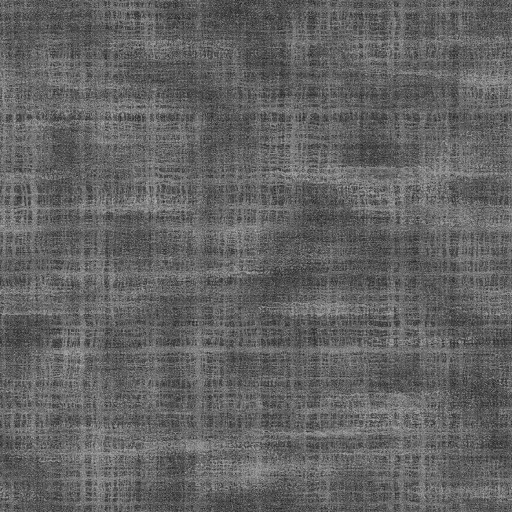
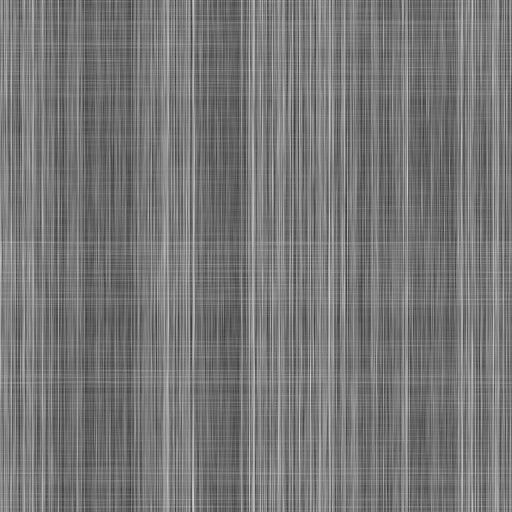
removed extra files +minor changes

diff --git a/report.html b/report.html
@@ -3,7 +3,7 @@
 <head>
     <meta charset="UTF-8">
     <meta name="viewport" content="width=device-width, initial-scale=1.0">
-    <title>Relazione Progetto WebGL</title>
+    <title>Relazione Progetto WebGL </title>
     <style>
         body {
             font-family: 'Segoe UI', Tahoma, Geneva, 
@@ -90,12 +90,11 @@
 
     <!-- DATI STUDENTE -->
     <div class="student-info">
-        <p>Nome: [Il tuo Nome]</p>
-        <p>Cognome: [Il tuo Cognome]</p>
-        <p>Matricola: [La tua Matricola]</p>
+        <p>Esame di Fondamenti di Computer Graphics (Modulo 1)</p>
+        <p>Francesco Taccetti - 1189579 </p>
     </div>
 
-    <h1>Relazione Progetto 3D WebGL: "Still Life"</h1>
+    <h1>Relazione Progetto 3D WebGL: "Natura Morta"</h1>
 
     <h2>Introduzione</h2>
     <p>
@@ -147,15 +146,15 @@
         avviene tramite la funzione
         <code>loadMeshWithGLM</code> che, appoggiandosi al parser, 
         estrae i dati poligonali e prepara in parallelo i buffer per 
-        le posizioni, le coordinate texture e due set distinti di normali 
+        le posizioni, le coordinate texture, le tangenti e due set distinti di normali 
         (normali di vertice e normali di faccia), fondamentali per supportare 
         dinamicamente le diverse tecniche di shading previste dall'applicazione.
     </p>
     <p>
         Il realismo visivo è garantito da un approccio misto al texture mapping. 
         Alcuni modelli, come gli elementi in vetro colorato, utilizzano 
-        texture monocromatiche generate direttamente via software a runtime. 
-        Per i restanti oggetti della scena sono state impiegate texture 
+        texture monocromatiche generate direttamente via software a runtime mentre
+        per i restanti oggetti della scena sono state impiegate texture 
         basate su file immagine. Infine, per soddisfare il requisito relativo 
         alla firma dell'autore, la foto personale è stata integrata all'interno 
         della texture dell'etichetta, applicata sulla superficie frontale 
@@ -223,19 +222,18 @@
         Il <em>Vertex Shader</em> riceve entrambi gli attributi, li moltiplica per 
         la matrice <code>u_worldInverseTranspose</code> per portarli nel corretto 
         spazio del mondo, e li passa al <em>Fragment Shader</em> come variabili 
-        <code>varying</code>. All'interno del <em>Fragment Shader</em>, una variabile 
+        <code>varying</code>; qui una variabile 
         uniforme booleana (<code>u_useFlatShading</code>, controllabile tramite 
         la GUI utente) agisce da switch logico e permette di decidere istantaneamente 
         quale dei due vettoriutilizzare nel calcolo del 
         prodotto scalare per ricavare la componente iffusa di Lambert e la 
-        componente Speculare, applicandola alle proprietà del materiale attivo.
+        componente speculare, applicandola alle proprietà del materiale attivo.
     </p>
 
     <h3>Skybox e Pavimento Infinito</h3>
     <p>
-        Lo sfondo della scena è gestito tramite skybox caricate dal 
-        file <code>skybox.js</code> tramite la routine 
-        <code>loadCubemapFromCross</code>. Questa funzione accetta una 
+        Lo sfondo della scena è gestito tramite skybox caricate tramite la routine 
+        <code>loadCubemapFromCross</code>, funzione che accetta in input una 
         singola texture con layout a "croce orizzontale" (griglia 4x3), 
         utilizzando un <code>canvas 2D</code> nascosto per ritagliare e 
         inviare a WebGL le sei facce della cubemap. L'applicazione consente 
@@ -250,8 +248,8 @@
         eseguire un tiling fitto ed evitarne la sgranatura. 
         Affinché il terreno si fonda in maniera naturale con l'orizzonte della 
         skybox, nel <em>Fragment Shader</em> del pavimento è stato implementato 
-        un effetto nebbia basato sulla distanza euclidea dalla telecamera. 
-        Utilizzando la funzione <code>smoothstep</code>, viene calcolato un 
+        un effetto nebbia basato sulla distanza euclidea dalla telecamera: 
+        utilizzando la funzione <code>smoothstep</code>, viene calcolato un 
         fattore di interpolazione che miscela linearmente la texture del prato 
         con il colore campionato dalla skybox, dissolvendo dolcemente la geometria all'orizzonte.
     </p>
@@ -301,8 +299,8 @@
             e dei dettagli degli oggetti appoggiati sul tavolo (i quali possono così proiettare ombre 
             più definite e farsi ombra a vicenda).
             Per prevenire artefatti visivi (<em>shadow acne</em>), il <em>depth bias</em> 
-            non viene calcolato manualmente nello shader, ma è gestito nativamente via hardware 
-            applicando un <strong>Polygon Offset</strong> durante la fase di generazione della mappa. 
+            viene gestito nativamente via hardware applicando un <strong>Polygon Offset</strong>
+            durante la fase di generazione della mappa; a questo si somma poi  un piccolo bias manuale nel Fragment Shader.
             <br><br>
             Per riflettere accuratamente la sorgente luminosa attiva, lo shader adotta due tipi di proiezione 
             della camera di luce:

diff --git a/still_life.js b/still_life.js
@@ -228,8 +228,8 @@ async function main() {
     const Fly_occhioTexture = loadTexture(gl, 'resources/texture/Insect-eyes.png');
     const butterflyTexture = loadTexture(gl, 'resources/texture/Farfalla.png');
 
-    const tavoloBumpTexture = loadBumpTexture(gl, 'resources/bump_maps/wood_bump1.png');
-    const tovagliaBumpTexture = loadBumpTexture(gl, 'resources/bump_maps/cloth_bump2.png');
+    const tavoloBumpTexture = loadBumpTexture(gl, 'resources/bump_maps/wood_bump.png');
+    const tovagliaBumpTexture = loadBumpTexture(gl, 'resources/bump_maps/cloth_bump.png');
     
     const aladxWorldMatrix = m4.translation(-0.013, 0.157, 0.018);
     const alasxWorldMatrix = m4.translation(-0.013, 0.157, -0.018);
@@ -422,26 +422,25 @@ async function main() {
         const viewMatrix = m4.inverse(cameraMatrix);
 
         let lightTarget;
+        let lightProjectionMatrix;
         
         if (lightState.isDirectional) {
             // Il Sole guarda verso il centro della scena per creare ombre lunghe e angolate
             lightTarget = [0, 0, 0]; 
-        } else {
-            // La lampadina guarda dritta verso il basso 
-            lightTarget = [lightState.x, 0.0, lightState.z - 0.001];
-        }
 
-        const lightWorldMatrix = m4.lookAt([lightState.x, lightState.y, lightState.z], lightTarget, [0, 1, 0]);
-
-        let lightProjectionMatrix;
-        if (lightState.isDirectional) {
             const frustumSize = 20;
             const frustumDepth = 40;
             lightProjectionMatrix = m4.orthographic(-frustumSize, frustumSize, -frustumSize, frustumSize, 0.5, frustumDepth);
         } else {
+            // La lampadina guarda dritta verso il basso 
+            lightTarget = [lightState.x, 0.0, lightState.z - 0.001];
+            
             let windowSize = 195 - (5.0*lightState.y); 
-            lightProjectionMatrix = m4.perspective(windowSize * Math.PI / 180, 1.0, 0.5, 30.0);
+            lightProjectionMatrix = m4.perspective(windowSize * Math.PI / 180, 1.0, 0.5, 20.0);
         }
+
+        const lightWorldMatrix = m4.lookAt([lightState.x, lightState.y, lightState.z], lightTarget, [0, 1, 0]);
+
 
 
         if (shadowState.enabled) {
@@ -455,7 +454,7 @@ async function main() {
             gl.disable(gl.BLEND);
 
             gl.enable(gl.POLYGON_OFFSET_FILL);
-            gl.polygonOffset(1.0, 1.0);
+            gl.polygonOffset(2.0, 2.0);
             drawSceneObjects(depthProgramInfo, { flyWorldMatrices, butterflyWorldMatrices, cameraPosition }, { includeTransparent: true, shadowPass: true });
             gl.disable(gl.POLYGON_OFFSET_FILL);
         }

diff --git a/input.js b/input.js
@@ -29,8 +29,8 @@ function initInputHandlers(canvas) {
         if (pressedKeys.has('e')) lightState.y -= step;
 
         lightState.x = Math.max(-10.0, Math.min(10.0, lightState.x));
-        lightState.y = Math.max(5.0, Math.min(15.0, lightState.y));
-        lightState.z = Math.max(-15.0, Math.min(15.0, lightState.z));
+        lightState.y = Math.max(6.0, Math.min(15.0, lightState.y));
+        lightState.z = Math.max(-10.0, Math.min(10, lightState.z));
     }
 
     function isLightMovementKey(key) {

diff --git a/still_life.html b/still_life.html
@@ -231,7 +231,7 @@
             vec3 surfaceToViewDirection = normalize(u_viewWorldPosition - v_surfaceWorldPosition);
             
             vec3 projectedTexcoord = v_projectedTexcoord.xyz / v_projectedTexcoord.w;
-            float bias = 0.0002;
+            float bias = 0.0001;
             float currentDepth = projectedTexcoord.z - bias;
 
             bool inRange =